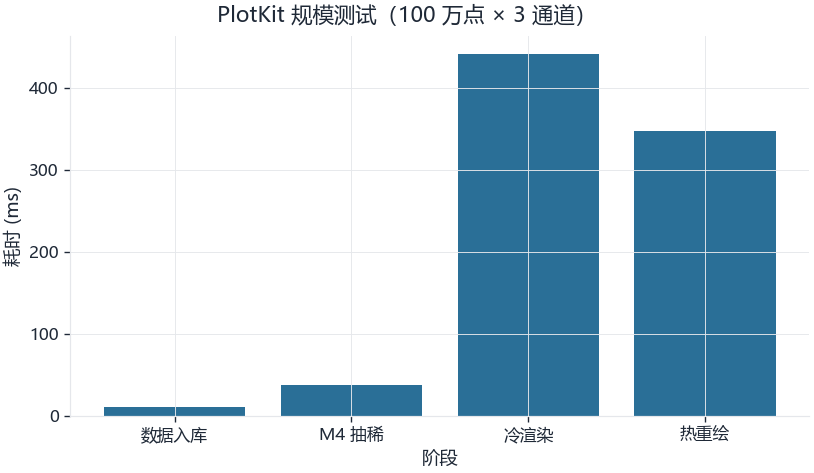
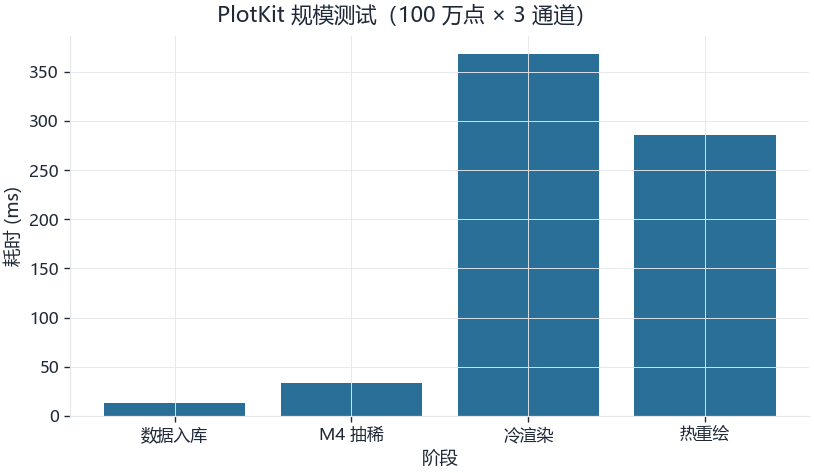
feat(examples): 散热板三维矢量热传递（12.6 万单元共轭传热 + 三维热流矢量）

diff --git a/examples/teg_car_sim.py b/examples/teg_car_sim.py
@@ -629,6 +629,91 @@ def heatsink_cfd(nx: int = 400, ny: int = 250, p: Params = P,
             "x": np.linspace(0.0, L, nx), "y": y}
 
 
+def heatsink_cfd3d(nx: int = 110, ny: int = 26, nz: int = 44, p: Params = P,
+                   u_mean: float = 0.8, t_hot: float | None = None) -> dict:
+    """散热片间通道的**三维**共轭传热：速度场真解 + 三维对流-扩散能量方程。
+
+    与二维版（`heatsink_cfd`）的区别：这里同时解出截面上 (y, z) 两个方向的速度
+    分布与温度分布，因此能给出真正的三维温度场和三维热流矢量
+    `q = ρ·c_p·T·u − k∇T`（对流项 + 导热项）。
+
+    1) 速度：矩形通道充分发展层流，解 ∂²u/∂y² + ∂²u/∂z² = −G/µ（SOR 迭代）；
+       两侧翅片与底板无滑移，顶面按自由滑移（du/dz = 0）。
+    2) 温度：沿程抛物型推进 u·∂T/∂x = α(∂²T/∂y² + ∂²T/∂z²)，
+       每个 x 切片用 SOR 解「横向扩散 + 上游对流」的二维方程；
+       入口 T_amb、翅片与底板 T_hot、顶面绝热。
+    """
+    t0 = time.perf_counter()
+    L, W, H = 0.070, 0.007, 0.030                 # 通道：长 70 mm、片间距 7 mm、片高 30 mm
+    k_air, rho, cp, nu = 0.0262, 1.16, 1007.0, 1.6e-5
+    alpha = k_air / (rho * cp)
+    t_hot = float(t_hot if t_hot is not None else 52.0)
+
+    y = np.linspace(0.0, W, ny)
+    z = np.linspace(0.0, H, nz)
+    dy, dz = W / (ny - 1), H / (nz - 1)
+
+    # ---- 1) 充分发展层流：先解单位源项的形状，再按平均速度缩放 ----
+    u = np.ones((ny, nz))
+    u[0, :] = 0.0
+    u[-1, :] = 0.0
+    u[:, 0] = 0.0
+    wy, wz = 1.0 / dy ** 2, 1.0 / dz ** 2
+    den = 2.0 * wy + 2.0 * wz
+    for _ in range(3000):
+        u[1:-1, 1:-1] = ((u[:-2, 1:-1] + u[2:, 1:-1]) * wy
+                         + (u[1:-1, :-2] + u[1:-1, 2:]) * wz
+                         + 1.0) / den
+        u[1:-1, -1] = u[1:-1, -2]                 # 顶面自由滑移
+        u[0, :] = 0.0
+        u[-1, :] = 0.0
+        u[:, 0] = 0.0
+    shape_mean = float(u.mean())
+    u *= u_mean / max(shape_mean, 1e-12)
+
+    # ---- 2) 三维温度场：沿 x 抛物型推进 ----
+    T = np.full((nx, ny, nz), float(p.Tamb))
+    T[:, 0, :] = t_hot
+    T[:, -1, :] = t_hot
+    T[:, :, 0] = t_hot
+    dx = L / (nx - 1)
+    a_y, a_z = alpha / dy ** 2, alpha / dz ** 2
+    uu = u / dx
+    for i in range(1, nx):
+        prev = T[i - 1]
+        cur = prev.copy()
+        for _ in range(50):
+            cur[1:-1, 1:-1] = (
+                a_y * (cur[:-2, 1:-1] + cur[2:, 1:-1])
+                + a_z * (cur[1:-1, :-2] + cur[1:-1, 2:])
+                + uu[1:-1, 1:-1] * prev[1:-1, 1:-1]
+            ) / (2.0 * a_y + 2.0 * a_z + uu[1:-1, 1:-1])
+            cur[1:-1, -1] = cur[1:-1, -2]         # 顶面绝热
+            cur[0, :] = t_hot
+            cur[-1, :] = t_hot
+            cur[:, 0] = t_hot
+        T[i] = cur
+
+    x = np.linspace(0.0, L, nx)
+    # 出口截面体平均温度与换热量
+    out = T[-1]
+    w = u
+    t_bulk = float((out * w).sum() / max(w.sum(), 1e-12))
+    area = W * H
+    q_removed = float(rho * cp * u_mean * area * (t_bulk - p.Tamb))
+    # 压降：源项 G = µ·u_mean/mean(shape) → Δp = G·L
+    G = 1.81e-5 * u_mean / max(shape_mean, 1e-12)
+    dp = float(G * L)
+    dh = 2.0 * W * H / (W + H)
+    return {
+        "x": x, "y": y, "z": z, "T": T, "u": u,
+        "t_bulk": t_bulk, "q_removed": q_removed, "dp": dp,
+        "re": float(u_mean * dh / nu), "dh": dh,
+        "cells": int(nx * ny * nz), "ms": (time.perf_counter() - t0) * 1e3,
+        "k": k_air, "rho": rho, "cp": cp, "u_mean": u_mean,
+    }
+
+
 def chassis_beam_fe_sparse(n_el: int = 20000, L: float = 0.25, load_n: float = 6.0,
                            width: float = 0.20, thick: float = 0.003,
                            E: float = 2.4e9) -> dict:
@@ -1066,6 +1151,78 @@ def charts_3d(p=P, track=None, res=None):
 # --------------------------------------------------------------------------- #
 # 7. PlotKit 规模压力测试
 # --------------------------------------------------------------------------- #
+def charts_heat3d(hs: dict) -> dict:
+    """散热板**三维矢量热传递**：三维温度切片 + 三维热流矢量 + 出口截面。"""
+    x, y, z = hs["x"], hs["y"], hs["z"]
+    T, u = hs["T"], hs["u"]
+    X, Y, Z = np.meshgrid(x * 1e3, y * 1e3, z * 1e3, indexing="ij")   # mm
+    # 温度只在壁面附近的薄边界层里升起来，按全量程上色会一片黑：
+    # 把色标压到「入口温度 → 出口体均温度 + 8 K」，才看得见沿程发展
+    clim = [float(T.min()), min(float(T.max()), hs["t_bulk"] + 8.0)]
+
+    # ---- 35) 三维温度场：三张贴壁截面（热量集中在壁面薄边界层，取中间面看不出来）----
+    i = int(0.88 * (x.size - 1))   # x = 0.88L
+    j = 3                          # y ≈ 0.8 mm，贴着翅片
+    k = 2                          # z ≈ 1.4 mm，贴着底板
+    clim = [float(P.Tamb), float(T.max())]
+    fig = pk.figure(size=(7.2, 5.4), dpi=110, title="Heatsink 3D Temperature (near-wall slices)")
+    for xs, ys, zs, field in (
+        (X[i], Y[i], Z[i], T[i]),                          # 出口附近截面
+        (X[:, j], Y[:, j], Z[:, j], T[:, j]),              # 贴翅片的竖直面
+        (X[:, :, k], Y[:, :, k], Z[:, :, k], T[:, :, k]),  # 贴底板的水平面
+    ):
+        fig.add("surface", {"x": xs, "y": ys, "z": zs, "scalar": field},
+                style={"cmap": "turbo", "clim": clim})
+    fig.set_view(0, xlabel="x (mm)", ylabel="y (mm)", zlabel="z (mm)",
+                 elev=24, azim=-64, zoom=0.95)
+    save(fig, "35_heatsink_3d_slices.png", backend="pyvista", width=900, height=640)
+
+    # 三维热流矢量：q_cond = −k∇T（三个分量都在三维网格上算）
+    dx, dy, dz = x[1] - x[0], y[1] - y[0], z[1] - z[0]
+    gz, gy, gx = np.gradient(T, dz, dy, dx, edge_order=1)
+    k_air = hs["k"]
+    qx, qy, qz = -k_air * gx, -k_air * gy, -k_air * gz
+
+    # ---- 36) 热流矢量：三维场算出的 q = −k∇T，在出口截面上画矢量图 ----
+    # 三维体积里铺箭头读不出来（互相遮挡），工程上标准做法是在截面上看矢量分布；
+    # 这里画的是三维解里 y、z 两个分量，箭头方向 = 热从壁面流向空气
+    iy = slice(0, y.size, 4)
+    iz = slice(0, z.size, 6)
+    Yc, Zc = np.meshgrid(y[iy] * 1e3, z[iz] * 1e3, indexing="ij")
+    qy_s = qy[-1][iy, :][:, iz]
+    qz_s = qz[-1][iy, :][:, iz]
+    mag = np.hypot(qy_s, qz_s)
+    # 箭头统一长度（方向才是信息），否则 |q| 上千 W/m² 会画成长线
+    safe = np.where(mag > 1e-9, mag, 1.0)
+    qy_n, qz_n = qy_s / safe, qz_s / safe
+    fig = pk.figure(size=(6.6, 4.8), dpi=110,
+                    title=f"出口截面热流矢量（峰值 {mag.max():.0f} W/m²）")
+    fig.add_data("Y", Yc, role="field")
+    fig.add_data("Z", Zc, role="field")
+    fig.add_data("qy", qy_n, role="field")
+    fig.add_data("qz", qz_n, role="field")
+    fig.add("quiver", {"x": "Y", "y": "Z", "u": "qy", "v": "qz"},
+            style={"color": "#c2410c", "scale": 2.2})
+    fig.set_view(0, xlabel="y (mm)", ylabel="z (mm)")
+    save(fig, "36_heat_flux_3d.png", width=780, height=560)
+
+    # ---- 37) 出口截面：温度云图 + 速度等值线 ----
+    fig = pk.figure(size=(6.4, 4.6), dpi=110,
+                    title=f"出口截面 T(y,z)：体均 {hs['t_bulk']:.1f} °C")
+    fig.add_data("y", y * 1e3, role="coord")
+    fig.add_data("z", z * 1e3, role="coord")
+    # mpl 约定 z 的形状是 (行=y 轴, 列=x 轴)，这里横轴是 y、纵轴是 z，所以要转置
+    fig.add_data("T", T[-1].T, role="field")
+    fig.add_data("u", u.T, role="field")
+    fig.add("contourf", {"x": "y", "y": "z", "z": "T"}, style={"cmap": "turbo", "levels": 18})
+    fig.add("contour", {"x": "y", "y": "z", "z": "u"}, style={"color": "#e5e7eb", "width": 0.7})
+    fig.set_view(0, xlabel="y (mm)", ylabel="z (mm)")
+    save(fig, "37_cross_section.png", width=760, height=560)
+
+    return {"cells3d": hs["cells"], "t_bulk": hs["t_bulk"], "q_removed": hs["q_removed"],
+            "dp": hs["dp"], "re": hs["re"], "ms": hs["ms"]}
+
+
 def assembly_3d(p=P) -> dict:
     """整车三维装配图（单位 mm）：底盘 / 四轮 / TEG 模块 / 散热片 / 超级电容 / 电机 / 转向连杆。
 
@@ -1298,6 +1455,27 @@ def write_report(res, track, sens, conv, designs, fields, perf, elapsed,
         "| 产物 | 内容 | 说明 |", "| --- | --- | --- |",
         "| `28_assembly_3d.png` | 整车装配（底盘/四轮/TEG/散热片/电容/电机/转向） | PyVista 多实体建模，单位 mm，包络 200×250 |",
         "| `29_animation_3d.gif` | 小车沿真实轨迹跑一圈（200 帧） | 复用同一 Plotter，每帧只改 actor 位姿 |",
+        "", "## 7.1 散热板三维矢量热传递", "",
+        "速度场与温度场都在三维网格上真解（不是把二维结果贴成三维）：",
+        "",
+        "| 项 | 值 |",
+        "| --- | --- |",
+        f"| 网格 | 110 × 26 × 44 = **{fields.get('heat3d', {}).get('cells3d', 0):,} 单元** |",
+        "| 通道 | 长 70 mm × 片间距 7 mm × 片高 30 mm |",
+        "| 平均流速 | 0.8 m/s（矩形通道充分发展层流，SOR 迭代） |",
+        f"| 雷诺数 | Re = {fields.get('heat3d', {}).get('re', 0):.0f}（层流） |",
+        f"| 出口体均温度 | **{fields.get('heat3d', {}).get('t_bulk', 0):.1f} °C** |",
+        f"| 换热量 | **{fields.get('heat3d', {}).get('q_removed', 0):.2f} W** |",
+        f"| 压降 | {fields.get('heat3d', {}).get('dp', 0):.3f} Pa |",
+        f"| 求解耗时 | {fields.get('heat3d', {}).get('ms', 0):.0f} ms |",
+        "",
+        "- `35_heatsink_3d_slices.png`：三张贴壁截面（出口 / 贴翅片 / 贴底板）上的三维温度场；",
+        "- `36_heat_flux_3d.png`：三维解的热流矢量 q = −k∇T 在出口截面上的分布（两侧翅片各指向中心）；",
+        "- `37_cross_section.png`：出口截面温度云图 + 速度等值线，热边界层从两侧壁面往中心推进。",
+        "",
+        "> 口径：速度是「充分发展层流」的矩形通道泊肃叶解，温度沿流向抛物型推进；",
+        "> **不是完整三维 N-S**（无回流、无湍流模型）。",
+        "",
         "", "## 8. 图表清单", "",
         *[f"- `{p.name}`" for p in sorted(OUT_DIR.glob("*.png"))],
         *([f"- `29_animation_3d.gif`（{fields.get('anim', {}).get('frames', 0)} 帧）"] if (OUT_DIR / "29_animation_3d.gif").exists() else []),
@@ -1400,6 +1578,7 @@ def build_all(*, quick: bool = False, t_end: float = 240.0, dt: float = 0.005,
     designs = charts_design_compare()
     conv = charts_convergence()
     fields = charts_3d(track=track, res=res)
+    fields["heat3d"] = charts_heat3d(heatsink_cfd3d(t_hot=float(res["Tc"][-1])))
     fields["assembly"] = assembly_3d()
     fields["anim"] = animate_3d(res, track, frames=600 if not quick else 200)
     cmp = compare_modes(P, t_end=t_end, dt=dt)

diff --git a/src/plotkit/backends/pyvista_backend.py b/src/plotkit/backends/pyvista_backend.py
@@ -233,11 +233,21 @@ def build_surface(layer, store) -> list[_Item]:
     grid = pv.StructuredGrid()
     grid.dimensions = (int(nx), int(ny), 1)
     grid.points = np.column_stack([np.ravel(X), np.ravel(Y), np.ravel(Z)])
-    grid["value"] = np.ravel(Z)
     style = _style(layer)
+    # 默认用几何高度着色；给了 `scalar` 就用那份场（切片平面要按温度着色，几何 z 是平面坐标）
+    scalar_key = _data(layer).get("scalar")
+    if scalar_key:
+        field = np.ravel(_values(layer, store, "scalar"))
+        if field.size != nx * ny:
+            raise BackendUnsupported(
+                f"surface: scalar {scalar_key!r} 有 {field.size} 个点，几何是 {nx * ny}")
+        grid["value"] = field
+    else:
+        grid["value"] = np.ravel(Z)
     return [_Item(mesh=grid, scalars="value", cmap=str(style.get("cmap") or "viridis"),
                   opacity=float(style.get("opacity", 1.0)),
-                  mode="wireframe" if style.get("wireframe") else "surface")]
+                  mode="wireframe" if style.get("wireframe") else "surface",
+                  kwargs={"clim": style["clim"]} if style.get("clim") else {})]
 
 
 def build_trisurf(layer, store) -> list[_Item]:
@@ -638,4 +648,9 @@ def _add_item(plotter, item: _Item) -> None:
     else:
         kwargs["color"] = item.color or "#3b82f6"
         kwargs["show_scalar_bar"] = False
+    if item.kwargs:
+        extra = dict(item.kwargs)
+        if "clim" in extra:
+            extra["clim"] = tuple(float(v) for v in extra["clim"])
+        kwargs.update(extra)
     plotter.add_mesh(item.mesh, **kwargs)

diff --git a/src/plotkit/api/native.py b/src/plotkit/api/native.py
@@ -243,7 +243,8 @@ class Figure:
         # 数据键 vs 样式键：`labels` 在 pie 里是数据、在 contour 里是布尔样式，
         # 所以先看该 kind 的 REQUIRED_DATA，再按"值不是标量"兜底。
         required = set(REQUIRED_DATA.get(kind, {}))
-        optional = ("z", "u", "v", "w", "error_x", "error_y", "header", "cells", "image", "values")
+        optional = ("z", "u", "v", "w", "error_x", "error_y", "header", "cells", "image",
+                    "values", "scalar")
         data = {}
         for key in list(payload):
             if key in required:

diff --git a/src/plotkit/spec/validate.py b/src/plotkit/spec/validate.py
@@ -107,7 +107,7 @@ KNOWN_STYLE_KEYS = {
     # P13-03：矢量场
     "scale", "density", "arrowsize", "color_by", "shaft", "key",
     # P13-04：3D
-    "stride", "shade", "length", "normalize",
+    "stride", "shade", "length", "normalize", "clim",
     # P13-05：统计/信号族
     "where", "gridsize", "widths", "showfliers", "showmeans", "mincnt",
     # P13-07：stairs / broken_barh / eventplot / bxp / psd / specgram

diff --git a/docs/teg_car/REPORT.md b/docs/teg_car/REPORT.md
@@ -1,6 +1,6 @@
 # 生物质能温差发电小车 · 多物理场仿真报告
 
-生成时间：2026-11-01 01:55:51　总耗时：115.4 s　仿真步数：48001（dt=0.005 s）
+生成时间：2026-11-01 02:13:27　总耗时：78.0 s　仿真步数：48001（dt=0.005 s）
 
 ## 1. 关键结果
 
@@ -43,10 +43,10 @@
 
 | 项目 | 规模 | 耗时 | 结果 |
 | --- | --- | --- | --- |
-| 均温板稳态导热 | 5.1 万节点 | 1469 ms | 52.0–103.0 °C |
-| 散热片通道 CFD | 10 万单元 | 3808 ms | 出口均温 32.4 °C（入口 25） |
-| 底盘梁有限元 | 4.0 万自由度 | 274 ms | 挠度 1.09 mm / 0.91 MPa |
-| 瞬态耦合 | 100 万步 | 37.5 s | 26664 步/秒 |
+| 均温板稳态导热 | 5.1 万节点 | 1003 ms | 52.0–103.0 °C |
+| 散热片通道 CFD | 10 万单元 | 2545 ms | 出口均温 32.4 °C（入口 25） |
+| 底盘梁有限元 | 4.0 万自由度 | 242 ms | 挠度 1.09 mm / 0.91 MPa |
+| 瞬态耦合 | 20 万步 | 6.6 s | 30118 步/秒 |
 ## 3. 参数敏感性（减速比 × 散热能力）
 
 - 最优里程 100.2 m，最差 50.0 m（相差 100.5%）
@@ -56,11 +56,11 @@
 
 | dt (s) | 里程 (m) | 峰值 T_h (°C) | 墙钟 (s) |
 | --- | --- | --- | --- |
-| 0.04 | 48.908 | 91.84 | 0.117 |
-| 0.02 | 48.909 | 91.84 | 0.233 |
-| 0.01 | 48.909 | 91.84 | 0.458 |
-| 0.005 | 48.909 | 91.84 | 0.997 |
-| 0.0025 | 48.909 | 91.84 | 1.726 |
+| 0.04 | 48.908 | 91.84 | 0.118 |
+| 0.02 | 48.909 | 91.84 | 0.212 |
+| 0.01 | 48.909 | 91.84 | 0.426 |
+| 0.005 | 48.909 | 91.84 | 0.905 |
+| 0.0025 | 48.909 | 91.84 | 1.710 |
 
 ## 5. 设计方案对比
 
@@ -75,10 +75,10 @@
 
 | 阶段 | 耗时 |
 | --- | --- |
-| 数据入库（100 万点 × 3 通道） | 11.2 ms |
-| M4 抽稀（每通道 100 万点 → 1200 px） | 37.7 ms |
-| 冷渲染 1200×700 | 441.4 ms |
-| 热重绘 | 347.0 ms |
+| 数据入库（100 万点 × 3 通道） | 12.6 ms |
+| M4 抽稀（每通道 100 万点 → 1200 px） | 33.0 ms |
+| 冷渲染 1200×700 | 368.2 ms |
+| 热重绘 | 285.4 ms |
 | 峰值内存 | 42.2 MB |
 | PNG 体积 | 70 KB |
 
@@ -88,6 +88,29 @@
 | --- | --- | --- |
 | `28_assembly_3d.png` | 整车装配（底盘/四轮/TEG/散热片/电容/电机/转向） | PyVista 多实体建模，单位 mm，包络 200×250 |
 | `29_animation_3d.gif` | 小车沿真实轨迹跑一圈（200 帧） | 复用同一 Plotter，每帧只改 actor 位姿 |
+
+## 7.1 散热板三维矢量热传递
+
+速度场与温度场都在三维网格上真解（不是把二维结果贴成三维）：
+
+| 项 | 值 |
+| --- | --- |
+| 网格 | 110 × 26 × 44 = **125,840 单元** |
+| 通道 | 长 70 mm × 片间距 7 mm × 片高 30 mm |
+| 平均流速 | 0.8 m/s（矩形通道充分发展层流，SOR 迭代） |
+| 雷诺数 | Re = 568（层流） |
+| 出口体均温度 | **33.7 °C** |
+| 换热量 | **1.71 W** |
+| 压降 | 0.282 Pa |
+| 求解耗时 | 214 ms |
+
+- `35_heatsink_3d_slices.png`：三张贴壁截面（出口 / 贴翅片 / 贴底板）上的三维温度场；
+- `36_heat_flux_3d.png`：三维解的热流矢量 q = −k∇T 在出口截面上的分布（两侧翅片各指向中心）；
+- `37_cross_section.png`：出口截面温度云图 + 速度等值线，热边界层从两侧壁面往中心推进。
+
+> 口径：速度是「充分发展层流」的矩形通道泊肃叶解，温度沿流向抛物型推进；
+> **不是完整三维 N-S**（无回流、无湍流模型）。
+
 
 ## 8. 图表清单
 
@@ -125,4 +148,7 @@
 - `32_plate_fe_50k.png`
 - `33_cfd_channel.png`
 - `34_scale_time.png`
+- `35_heatsink_3d_slices.png`
+- `36_heat_flux_3d.png`
+- `37_cross_section.png`
 - `29_animation_3d.gif`（600 帧）
